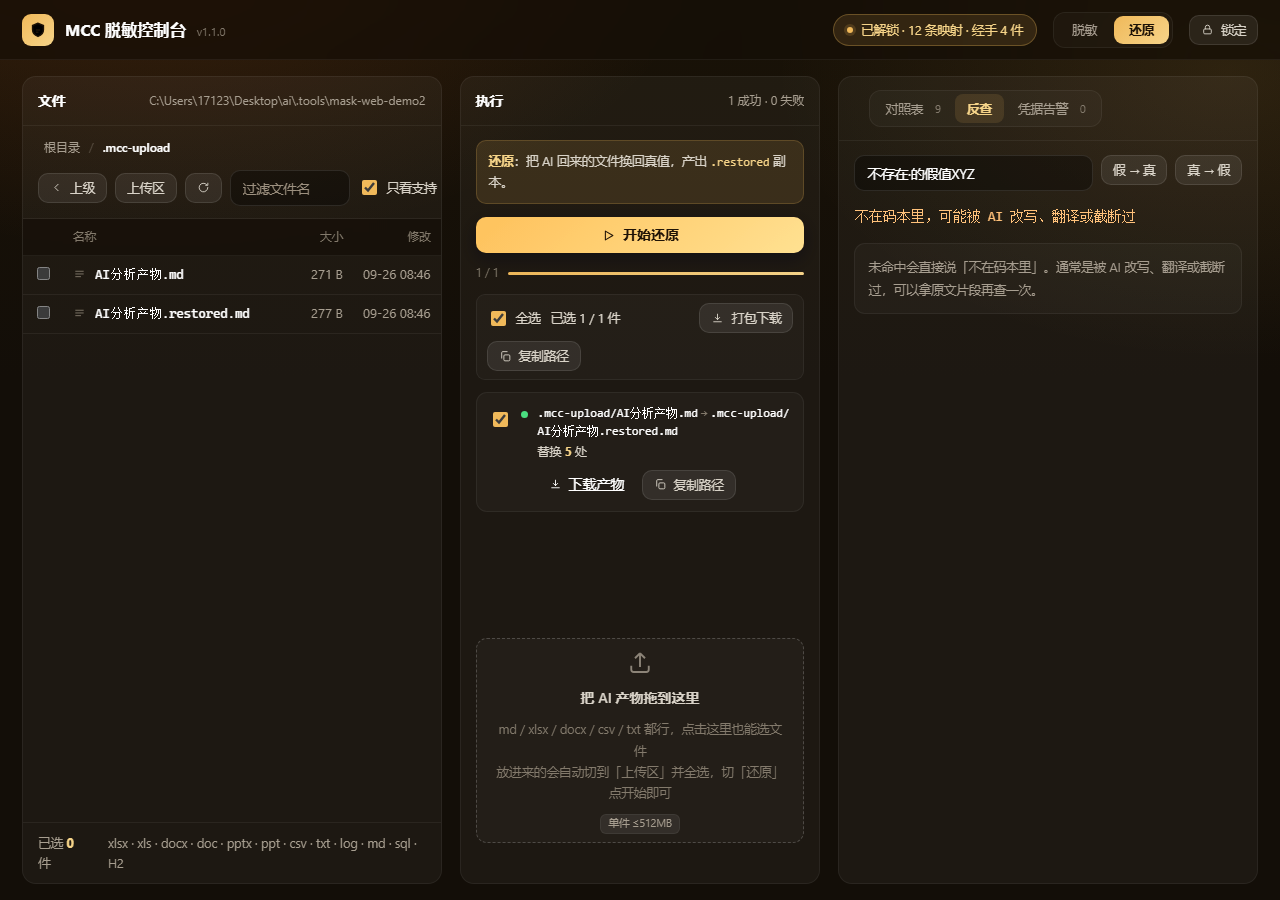
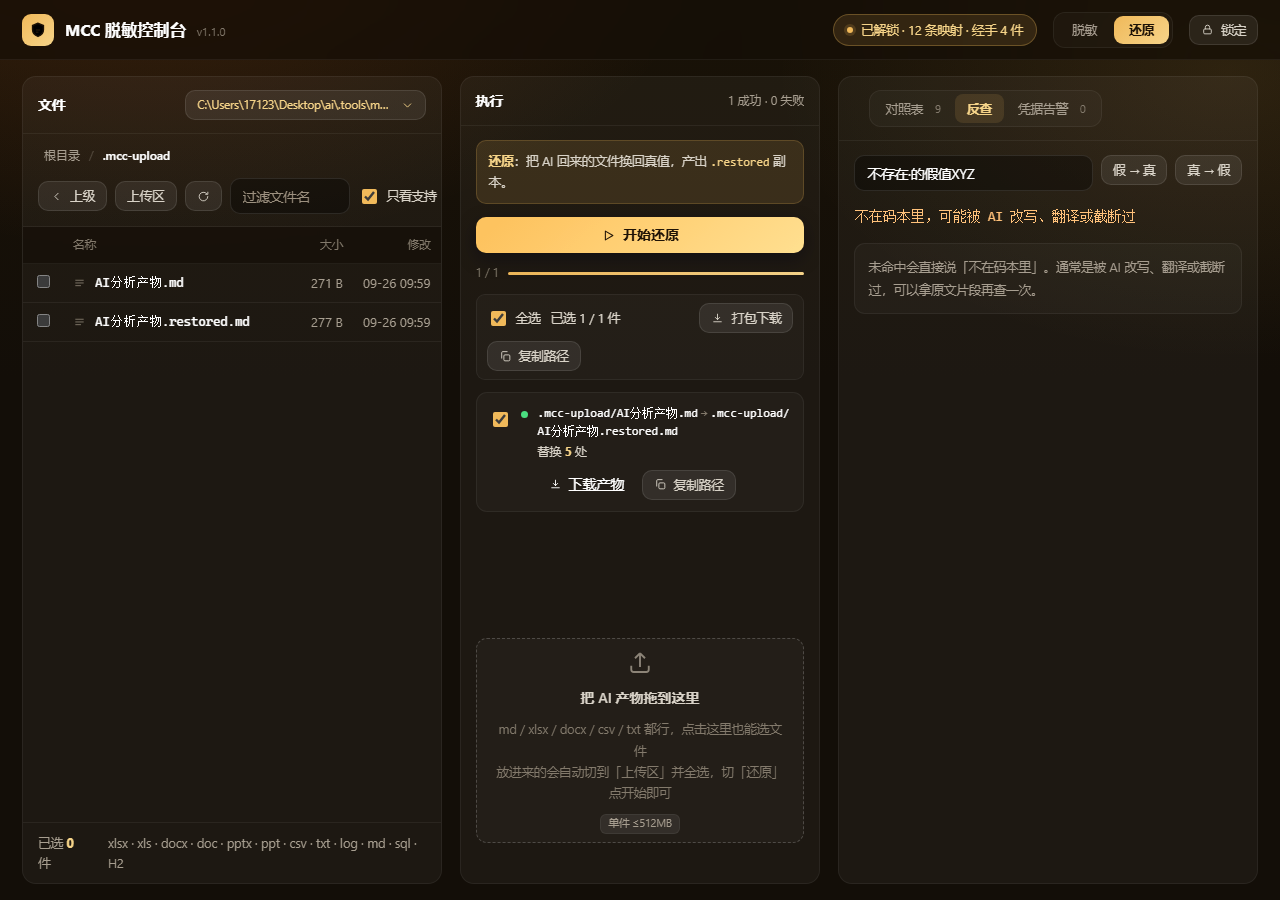
feat(web): 页内切换工作目录（文件区路径可点，弹目录选择器）
Why: 用户反馈"文件区位置固定死、不灵活"——工作目录只能由启动参数 --root 决定
How: POST /api/root 重建 Workspace 换根（码本目录重新隐藏）；GET /api/dirs 列盘符/子目录；
     点文件区右上角路径 → 选择器（上一层/盘符/粘路径/子目录列表/就用这个目录）
Ver: ApiHttpTest +1（列目录→切根→越界照拒→切回）；浏览器断言 49→52 全绿

diff --git a/src/main/resources/web/index.html b/src/main/resources/web/index.html
@@ -114,6 +114,22 @@ input:focus{border-color:var(--gold);box-shadow:0 0 0 3px rgba(240,185,90,.14)}
 .pane > header{display:flex;align-items:center;gap:10px;padding:13px 15px;border-bottom:1px solid var(--line-2)}
 .pane > header h2{margin:0;font-size:13.5px;font-weight:650;letter-spacing:.2px}
 .pane > header .meta{font-size:12px;color:var(--t3);margin-left:auto;min-width:0;overflow:hidden;text-overflow:ellipsis;white-space:nowrap}
+.pathbtn{margin-left:auto;max-width:62%;overflow:hidden;text-overflow:ellipsis;font-size:11.5px;color:var(--gold-2)}
+.pathbtn .mono{overflow:hidden;text-overflow:ellipsis;white-space:nowrap}
+.picker{position:fixed;inset:0;z-index:var(--z-modal);display:grid;place-items:center;background:rgba(8,5,3,.72)}
+.pkcard{width:min(720px,92vw);max-height:82vh;display:flex;flex-direction:column;background:#17110b;
+  border:1px solid var(--line);border-radius:var(--r);box-shadow:0 18px 48px rgba(0,0,0,.55);overflow:hidden}
+.pkcard header{display:flex;align-items:center;gap:10px;padding:13px 16px;border-bottom:1px solid var(--line-2)}
+.pkcard h3{margin:0;font-size:14px;font-weight:650}
+.pkcard header .meta{color:var(--t3);font-size:12px;margin-left:auto;max-width:60%;overflow:hidden;text-overflow:ellipsis;white-space:nowrap}
+.pkrow{display:flex;gap:8px;padding:12px 16px;border-bottom:1px solid var(--line-2)}
+.pkrow input{flex:1;height:30px}
+.pklist{flex:1;overflow:auto;min-height:180px;padding:6px 8px}
+.pkitem{display:flex;align-items:center;gap:9px;padding:8px 10px;border-radius:9px;cursor:pointer;font-size:13px}
+.pkitem:hover{background:rgba(255,255,255,.06)}
+.pkitem .nm{font-family:ui-monospace,Consolas,monospace;font-size:12.5px}
+.pkcard footer{display:flex;align-items:center;gap:10px;padding:12px 16px;border-top:1px solid var(--line-2)}
+.pkcard footer .hint{flex:1;font-size:11.5px;color:var(--t4);line-height:1.5}
 .pane .body{padding:14px 15px;display:flex;flex-direction:column;flex:1}
 .pane .body.tight{padding:10px 15px 14px}
 
@@ -279,11 +295,34 @@ tr.dir:hover .txt{text-decoration:underline;text-underline-offset:3px}
   </ol>
 </section>
 
+<!-- 换目录 -->
+<div id="picker" class="picker hide">
+  <div class="pkcard">
+    <header><h3>选择工作目录</h3><span class="meta mono" id="pkPath"></span></header>
+    <div class="pkrow">
+      <button class="quiet" id="pkUp">上一层</button>
+      <button class="quiet" id="pkDrives">盘符</button>
+      <input id="pkInput" type="text" placeholder="也可直接粘贴路径，如 D:\台账">
+      <button class="quiet" id="pkGo">前往</button>
+    </div>
+    <div class="pklist" id="pkList"></div>
+    <footer>
+      <span class="hint">切过去后，文件区与产物都跟着新目录走；码本不跟着动（还是这本）。</span>
+      <button class="quiet" id="pkCancel">取消</button>
+      <button class="primary small" id="pkOk">就用这个目录</button>
+    </footer>
+  </div>
+</div>
+
 <!-- 工作台 -->
 <div id="main" class="shell locked">
   <!-- 文件 -->
   <section class="pane pane-files">
-    <header><h2>文件</h2><span class="meta mono" id="rootPath"></span></header>
+    <header><h2>文件</h2>
+      <button class="quiet pathbtn" id="rootBtn" title="点这里换一个工作目录">
+        <span class="mono" id="rootPath"></span>
+        <svg class="i s" viewBox="0 0 24 24"><path d="m6 9 6 6 6-6"/></svg>
+      </button></header>
     <nav class="path" id="crumb" aria-label="目录路径"></nav>
     <div class="tools">
       <button class="quiet" id="upBtn"><svg class="i s" viewBox="0 0 24 24"><path d="M15 6 9 12l6 6"/></svg>上级</button>
@@ -611,6 +650,19 @@ function selRes(){
   $('#resSel').textContent=`已选 ${sel.length} / ${all.length} 件`;
   $('#allRes').checked=all.length>0&&sel.length===all.length;
 }
+let pkPath='';
+async function openPicker(){ $('#picker').classList.remove('hide'); await pkLoad($('#rootPath').textContent.trim()); }
+async function pkLoad(p){
+  try{
+    const j=await api('/api/dirs'+(p?'?path='+encodeURIComponent(p):''));
+    pkPath=j.path; $('#pkPath').textContent=pkPath||'（选盘符）';
+    $('#pkUp').disabled=!j.parent; $('#pkUp').dataset.p=j.parent||'';
+    $('#pkInput').value=pkPath;
+    $('#pkList').innerHTML=j.dirs.map(d=>`<div class="pkitem" data-p="${esc(d.path)}">${ICON.folder}<span class="nm">${esc(d.name)}</span></div>`).join('')
+      ||'<div class="blank">这个目录下没有子目录</div>';
+    $$('#pkList .pkitem').forEach(el=>el.onclick=()=>pkLoad(el.dataset.p));
+  }catch(e){ $('#pkList').innerHTML='<div class="blank">'+esc(e.message)+'</div>'; }
+}
 const absPath=rel=>{
   const root=$('#rootPath').textContent.replace(/[\\/]+$/,'');
   const sep=root.includes('\\')?'\\':'/';
@@ -652,6 +704,16 @@ $('#cpAllBtn').onclick=async()=>{
   if(!paths.length){$('#upErr').textContent='先选中要复制的产物';return}
   const how=await copyText(paths.join(String.fromCharCode(10)));
   if(how!=='manual')$('#runInfo').textContent='已复制 '+paths.length+' 条路径';
+};
+$('#rootBtn').onclick=openPicker;
+$('#pkCancel').onclick=()=>$('#picker').classList.add('hide');
+$('#pkDrives').onclick=()=>pkLoad('');
+$('#pkUp').onclick=()=>pkLoad($('#pkUp').dataset.p||'');
+$('#pkGo').onclick=()=>pkLoad($('#pkInput').value.trim());
+$('#pkInput').onkeydown=e=>{if(e.key==='Enter')pkLoad($('#pkInput').value.trim())};
+$('#pkOk').onclick=async()=>{
+  try{await post('/api/root',{path:pkPath});$('#picker').classList.add('hide');dir='';page=1;await refreshState();$('#runInfo').textContent='工作目录已切换'}
+  catch(e){$('#upErr').textContent=e.message}
 };
 $('#refreshBtn').onclick=async()=>{
   try{await loadList();await loadPairs()}catch(e){await refreshState()}

diff --git a/src/main/java/com/mcc/mask/web/Api.java b/src/main/java/com/mcc/mask/web/Api.java
@@ -46,7 +46,7 @@ public final class Api {
     private static final String MASK_OUT_SUFFIX = ".masked";
     private static final String UNMASK_OUT_SUFFIX = ".restored";
 
-    private final Workspace ws;
+    private Workspace ws;
     private final Session session;
     private final ObjectMapper om = new ObjectMapper();
     private final String bookDir;
@@ -88,6 +88,8 @@ public final class Api {
                 yield Resp.json(200, ok(Map.of()), om);
             }
             case "/api/ls" -> ls(query.getOrDefault("dir", ""));
+            case "/api/root" -> setRoot(body);
+            case "/api/dirs" -> dirs(query.get("path"));
             case "/api/run" -> run(body);
             case "/api/pairs" -> pairs(query);
             case "/api/export/pairs" -> exportPairs(query);
@@ -195,6 +197,68 @@ public final class Api {
         }
         BookIo.save(session.bookFile(), session.pass(), book);
         return Resp.json(200, ok(Map.of("removed", removed)), om);
+    }
+
+    /** 页内切换工作目录（只本机可达，选择后文件区即以它为根）。 */
+    private Resp setRoot(byte[] body) {
+        requireUnlock();
+        String p = parse(body).path("path").asText("").trim();
+        if (p.isEmpty()) {
+            throw new MaskException("目录不能为空");
+        }
+        Path dir = Path.of(p);
+        if (!Files.isDirectory(dir)) {
+            throw new MaskException("目录不存在: " + dir);
+        }
+        ws = new Workspace(dir);
+        Path bookParent = BookIo.resolve(bookDir, false).getParent();
+        if (bookParent != null) {
+            ws.hide(bookParent);
+        }
+        Map<String, Object> m = new LinkedHashMap<>();
+        m.put("root", ws.root().toString());
+        return Resp.json(200, ok(m), om);
+    }
+
+    /** 目录浏览（供页内选择器）：给空则列盘符，否则列该目录下的子目录。 */
+    private Resp dirs(String path) {
+        requireUnlock();
+        List<Map<String, Object>> out = new ArrayList<>();
+        String cur = path == null ? "" : path.trim();
+        try {
+            if (cur.isEmpty()) {
+                for (char c = 'A'; c <= 'Z'; c++) {
+                    Path d = Path.of(c + ":\\");
+                    if (Files.isDirectory(d)) {
+                        out.add(Map.of("name", c + ":", "path", d.toString()));
+                    }
+                }
+                if (out.isEmpty()) {
+                    out.add(Map.of("name", "/", "path", "/"));
+                }
+            } else {
+                Path dir = Path.of(cur);
+                if (!Files.isDirectory(dir)) {
+                    throw new MaskException("目录不存在: " + dir);
+                }
+                try (var stream = Files.list(dir)) {
+                    for (Path p : stream.sorted().toList()) {
+                        String n = p.getFileName().toString();
+                        if (Files.isDirectory(p) && !n.startsWith("$") && !n.equals("System Volume Information")) {
+                            out.add(Map.of("name", n, "path", p.toString()));
+                        }
+                    }
+                }
+            }
+        } catch (IOException e) {
+            throw new MaskException("列目录失败: " + e.getMessage(), e);
+        }
+        Path parent = cur.isEmpty() ? null : Path.of(cur).getParent();
+        Map<String, Object> m = new LinkedHashMap<>();
+        m.put("path", cur);
+        m.put("parent", parent == null ? "" : parent.toString());
+        m.put("dirs", out);
+        return Resp.json(200, ok(m), om);
     }
 
     private Resp ls(String relDir) {

diff --git a/src/test/java/com/mcc/mask/web/ApiHttpTest.java b/src/test/java/com/mcc/mask/web/ApiHttpTest.java
@@ -235,6 +235,28 @@ class ApiHttpTest {
     }
 
     @Test
+    void 页内切换工作目录() throws Exception {
+        post("/api/book/new", "{\"pass\":\"口令A\"}");
+        Path sub = Files.createDirectory(root.resolve("子库"));
+        Files.writeString(sub.resolve("a.csv"), "手机\n13900001122\n");
+
+        Http dirs = get("/api/dirs?path=" + enc(root.toString()));
+        assertEquals(200, dirs.status, dirs.body);
+        assertTrue(dirs.has("子库"), dirs.body);
+
+        String body = "{\"path\":\"" + sub.toString().replace("\\", "\\\\") + "\"}";
+        Http set = post("/api/root", body);
+        assertEquals(200, set.status, set.body);
+        assertTrue(get("/api/state").has("子库"), "状态里的根应换成新目录");
+        assertTrue(get("/api/ls").has("a.csv"), "文件区应以新目录为根");
+        assertEquals(400, get("/file?path=" + enc("../台账.csv")).status, "换根后越界照样拒");
+
+        String back = "{\"path\":\"" + root.toString().replace("\\", "\\\\") + "\"}";
+        assertEquals(200, post("/api/root", back).status);
+        assertTrue(get("/api/ls").has("台账.csv"), "切回来还在");
+    }
+
+    @Test
     void 错口令与路径越界与锁定() throws Exception {
         post("/api/book/new", "{\"pass\":\"口令A\"}");
         assertEquals(200, post("/api/lock", "{}").status);

diff --git a/docs/log/变更日志.md b/docs/log/变更日志.md
@@ -2,6 +2,11 @@
 
 > 一行一条，新的在上。
 
+## 2026-09-24（页内换工作目录）
+- [功能] **文件区位置可换**（用户："文件区的位置是不是固定死不能选择啊，不灵活"）：点文件区右上角的路径 → 弹**目录选择器**（当前路径 / 上一层 / 盘符 / 直接粘路径「前往」/ 子目录列表 / 「就用这个目录」），选定即切换，不用重启服务。切换后文件区与产物都跟新目录走，**码本不跟着动**（还是同一本，凭据映射不丢）
+- 接口：`POST /api/root {path}` 换根（重建 Workspace 并重新隐藏码本目录）、`GET /api/dirs?path=` 列盘符/子目录（只本机可达；换根后越界仍按新根拒）
+- [测试] `ApiHttpTest` 增用例（列目录含「子库」→ 切根 → state/ls 都跟新根 → 越界照拒 → 切回原根仍在）；浏览器断言 49 → **52 全过**（选择器打开／列出子目录／取消关闭），截图 `docserify-换目录.png`
+
 ## 2026-09-24（链式脏映射可视 + 自动刷新）
 - [功能] **「链式」标记**（用户："都没有脱敏文件但是还有对照码"）：服务端逐条判定"本条的假值又被当成原值脱过第二次"，命中即打 `chained`；界面在类别旁挂红色「链式」标签，表头下补一行说明「其中 N 条是链式脏映射…删掉对应的 `.masked.masked.*` 文件 → 点「刷新」即可清掉」
 - [功能] **刷新会同时刷对照表**；窗口重新聚焦（在资源管理器里删完文件切回来）也会自动刷新列表与对照表——此前删了文件表不跟着变，看着像"删不掉"
